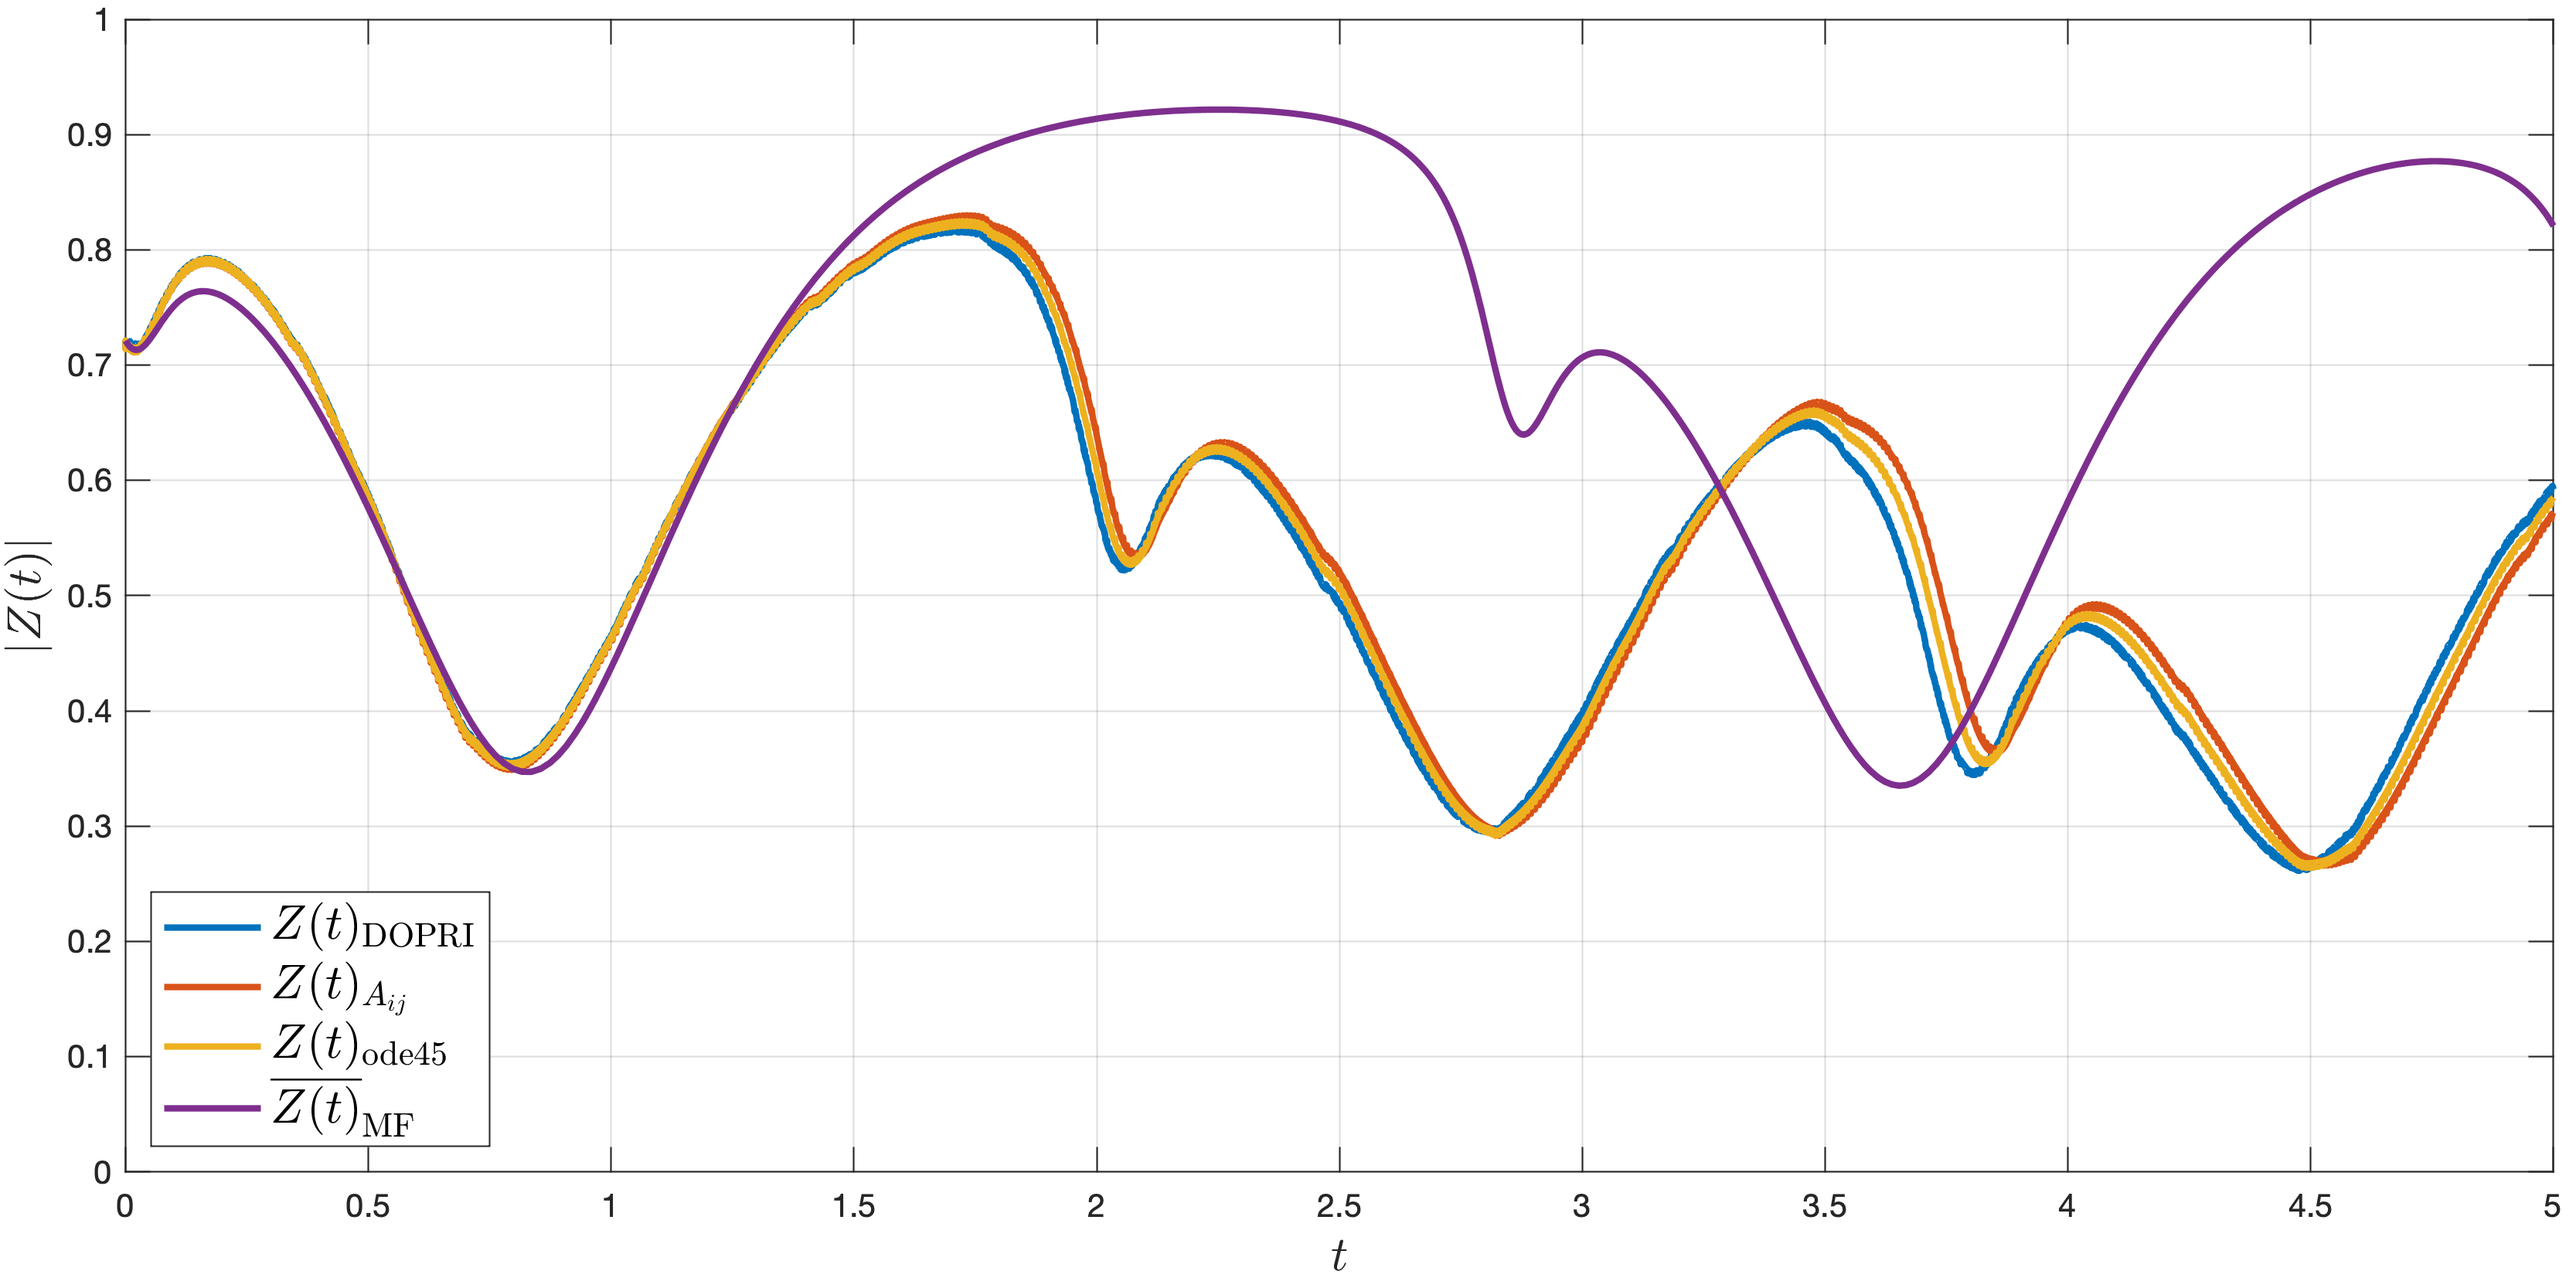
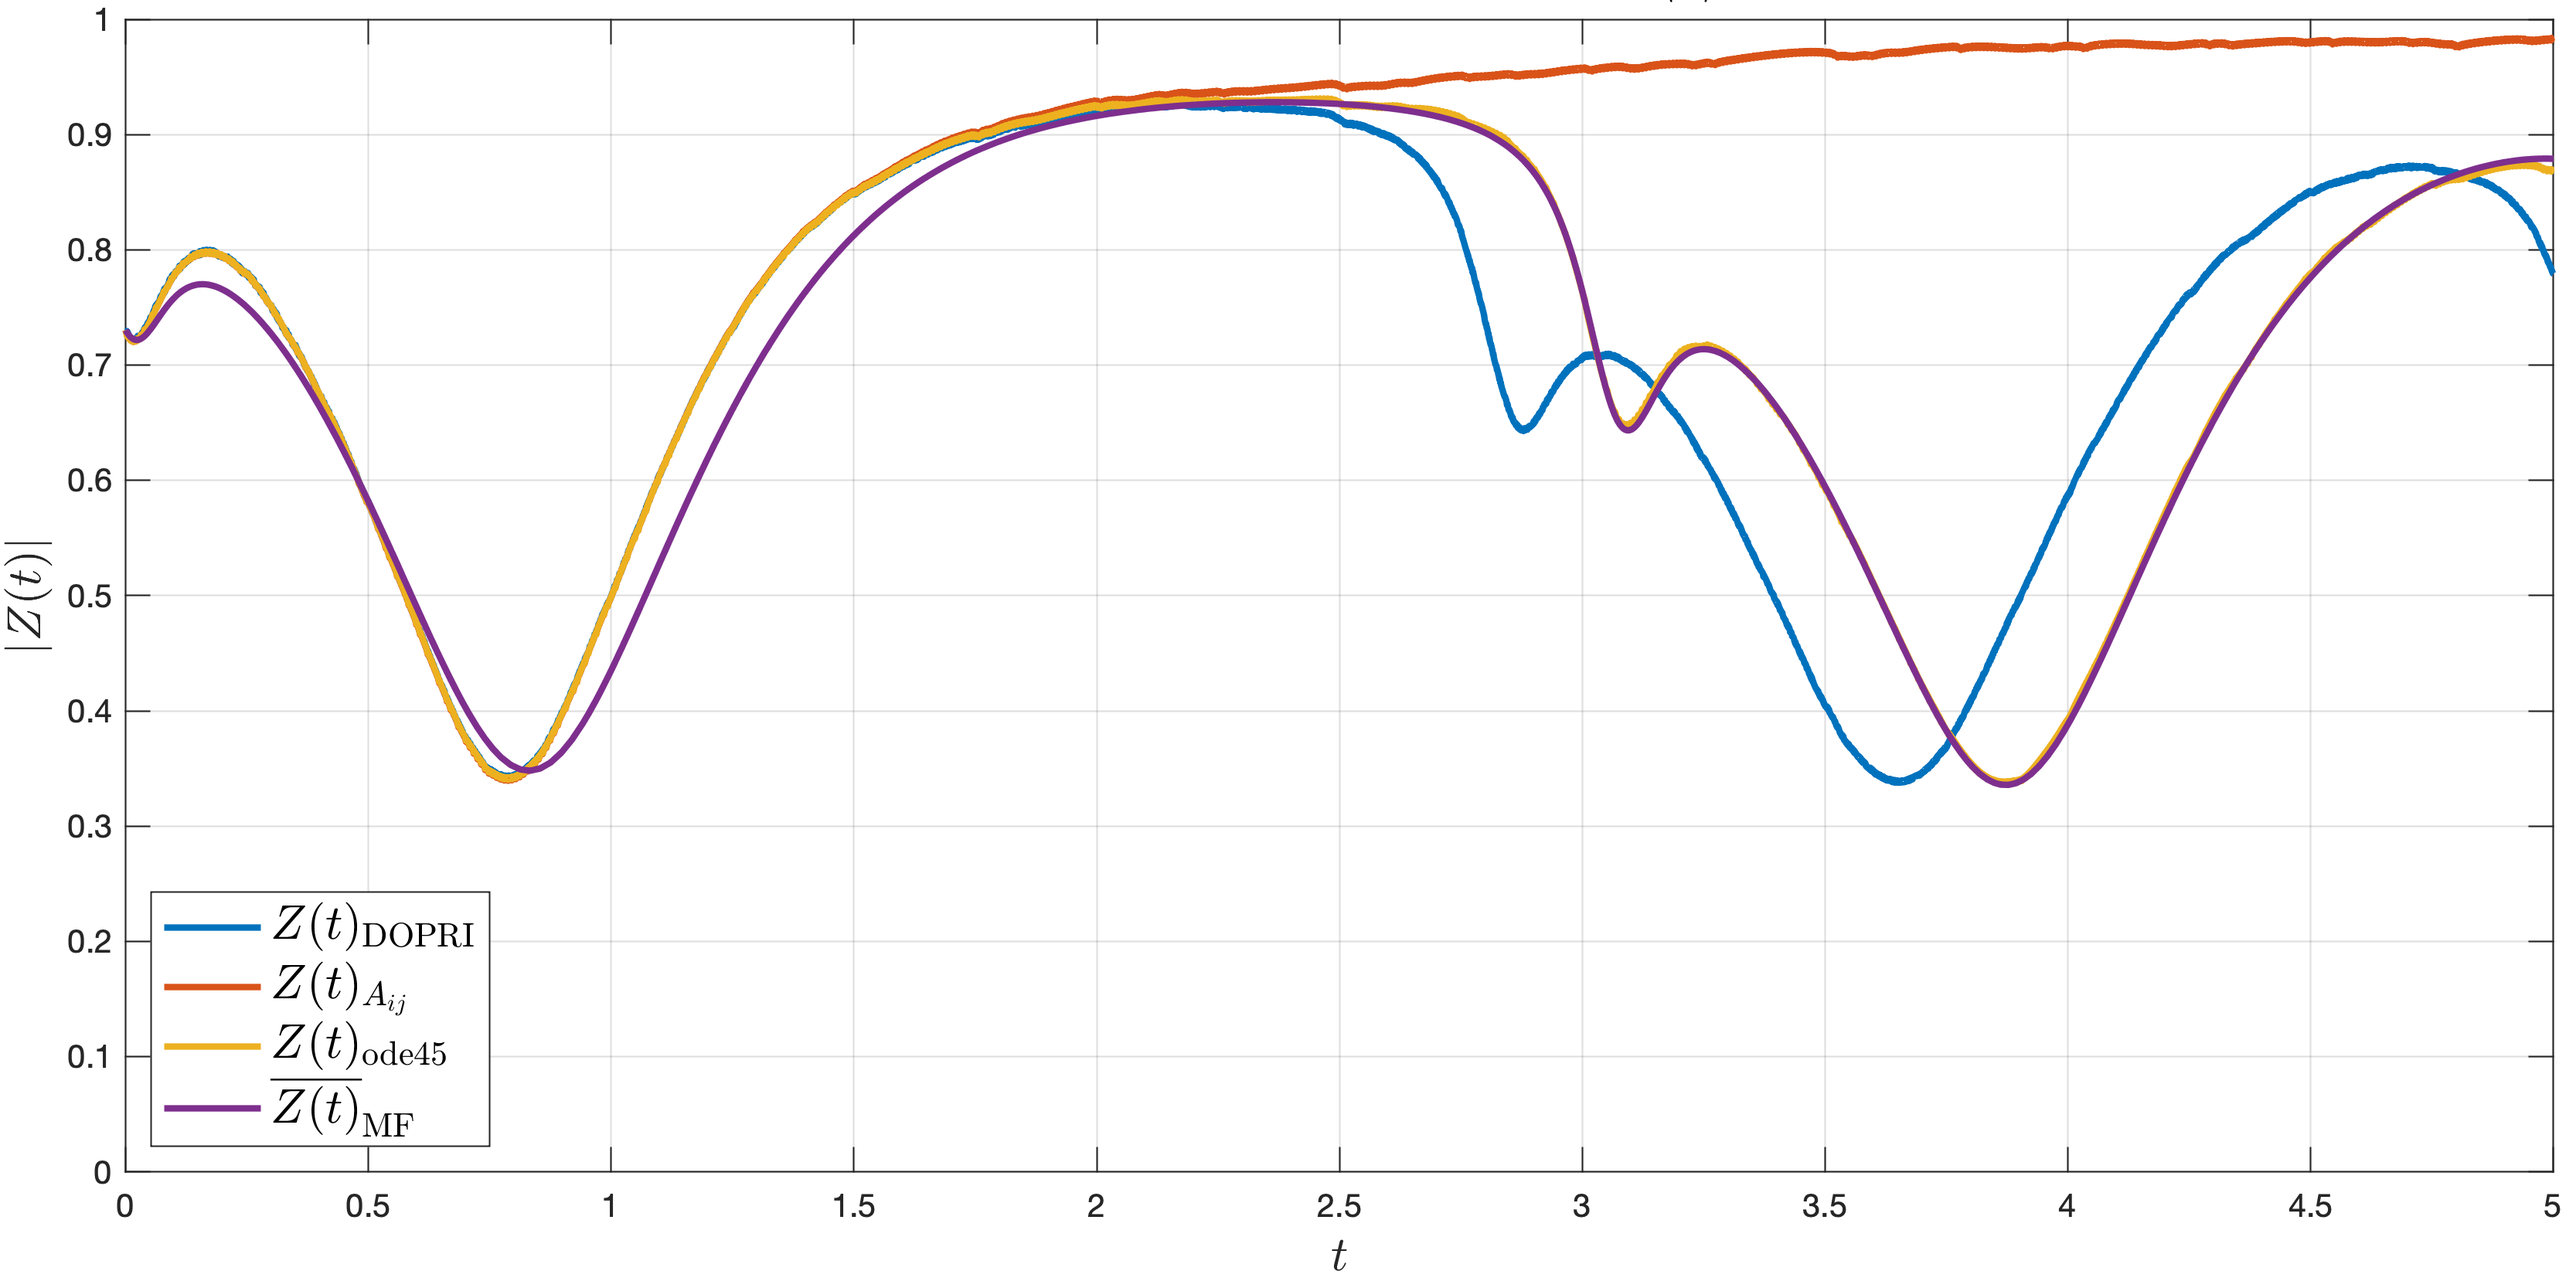
Made more plots for better understanding

diff --git a/Tests/SolveForAfromPDF.m b/Tests/SolveForAfromPDF.m
@@ -15,14 +15,10 @@ addpath('../Functions');
 
 N = 10;
 pars.N = N;
-% networkpars = make_scalefreeparameters(pars, 3);
 networkpars = make_randomparameters(pars, 0.3);
 
 degrees_in = networkpars.degrees_in;
 degrees_out = networkpars.degrees_out;
-
-% degrees_in = linspace(0,9,N)';
-% degrees_out = linspace(0,9,N)';
 
 %% The algorithm:
 clc
@@ -55,8 +51,8 @@ A = zeros(N,N);
 
 rowpermutation = randperm(N);
 for i = 1:N
-    rowindex = rowpermutation(i)
-    numelements = degrees_in(rowindex)
+    rowindex = i;
+    numelements = degrees_in(rowindex);
     if numelements == 0
         continue
     end
@@ -66,10 +62,8 @@ for i = 1:N
     % Permutation makes the implementation quite robust: 
     % Don't just sample the first maximum elements 
     probsperm = randperm(N);
-    [~, probsperminv] = sort(probsperm)
-    disp('Shuffled')
-    disp(probs(probsperm)')
-    [chosen, chosenidx] = maxk(probs(probsperm), numelements)
+    [~, probsperminv] = sort(probsperm);
+    [chosen, chosenidx] = maxk(probs(probsperm), numelements);
     chosenidx = probsperm(chosenidx);
     
     indices = idxidx(rowindex):idxidx(rowindex+1)-1;
@@ -86,22 +80,68 @@ end
 
 A = sparse(xidx, yidx, ones(numnonzeros, 1, 'logical'));
 A(N,N) = 0;
+
+C = cat(1, full(A), degrees_out');
+C = cat(2, C, [degrees_in; -100])
+
 assert(sum(diag(A)) == 0);
 
-diffcols = degrees_out' - full(sum(A,1));
-nonzeroidx = find(diffcols);
+diffcols = degrees_out' - full(sum(A,1))
+nonzeroidx = find(diffcols)
+numel(nonzeroidx)
 if numel(nonzeroidx) > 0
-    
+    if diffcols(nonzeroidx(1)) == -diffcols(nonzeroidx(2))
+        switchidx1 = find(A(:,nonzeroidx(1)) == 1)
+        for sw = 1:numel(switchidx1)
+            sw
+            A(sw,nonzeroidx(1)) 
+            A(sw,nonzeroidx(2)) 
+            if A(sw,nonzeroidx(2)) == 0
+                A(sw,nonzeroidx(2)) = 1;
+                A(sw,nonzeroidx(1)) = 0;
+                break
+            end
+        end
+    end
+    C = cat(1, full(A), degrees_out');
+    C = cat(2, C, [degrees_in; -100])
 end
 
-
-% C = cat(1, full(A), degrees_out');
-% C = cat(2, C, [degrees_in; -100])
-% 
-% assert(sum(diag(A)) == 0);
-% 
-% diffrows = degrees_in' - full(sum(A,2))'
-% diffcols = degrees_out' - full(sum(A,1))
+diffcols = degrees_out' - full(sum(A,1))
 
 %% Test the function:
+pars.N = 1000;
+netp = 0.60143;
+meandegree = netp*(N - 1);
+networkpars = make_randomparameters(pars, netp);
+
+assert(sum(networkpars.degrees_in) == sum(networkpars.degrees_out))
+
+tic 
+A_random = adjacencymatrix(networkpars.degrees_in, networkpars.degrees_out);
+toc
+
+tic 
+A_random = adjacencymatrix_from_sampling(networkpars.degrees_in, networkpars.degrees_out);
+toc
+
+% Lesson: faster if we just get it after one try, but it seems to be more
+% accurate.
+
+%% Test a fixed degree network:
+netdegree = 300;
+degrees_in = zeros(N,1);
+degrees_in(randperm(N)) = netdegree;
+degrees_out = degrees_in(randperm(N)); % because these two have to contain the same number of elements
+
+assert(sum(degrees_in) == sum(degrees_out))
+
+A_fixeddegree = adjacencymatrix(degrees_in, degrees_out);
+f_fixeddegree = figure('Renderer', 'painters', 'Position', [0 800 400 400]);
+hAxes = axes(f_fixeddegree); 
+imshow(full(A_fixeddegree), 'Parent', hAxes);
+title(hAxes, ['Fixed degree $$A_{ij}$$: $$N$$ = ', num2str(N), ', $$\langle k \rangle$$ = ', num2str(mean(degrees_in))],'interpreter','latex', 'FontSize', 15)
+print(f_fixeddegree, '../Figures/A_fixeddegree.png', '-dpng', '-r300')
+
+close(f_fixeddegree)
 
